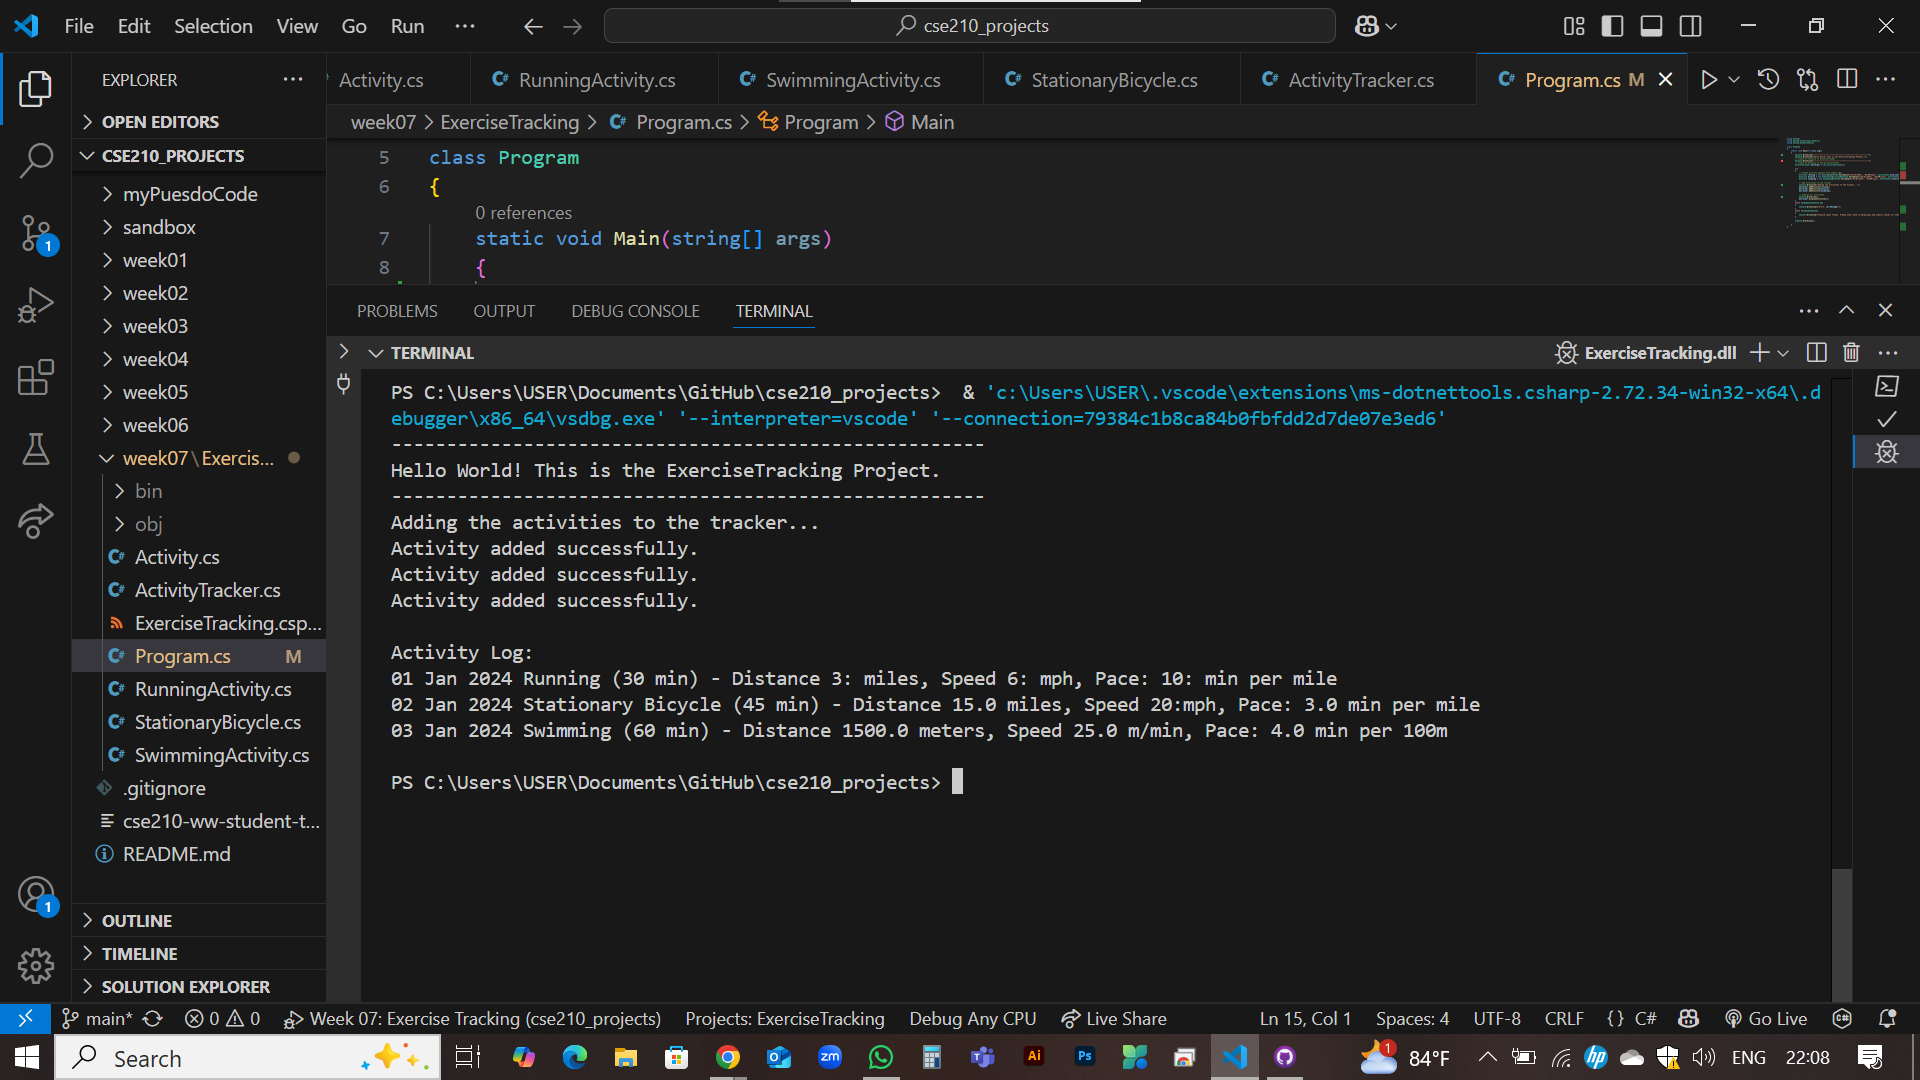
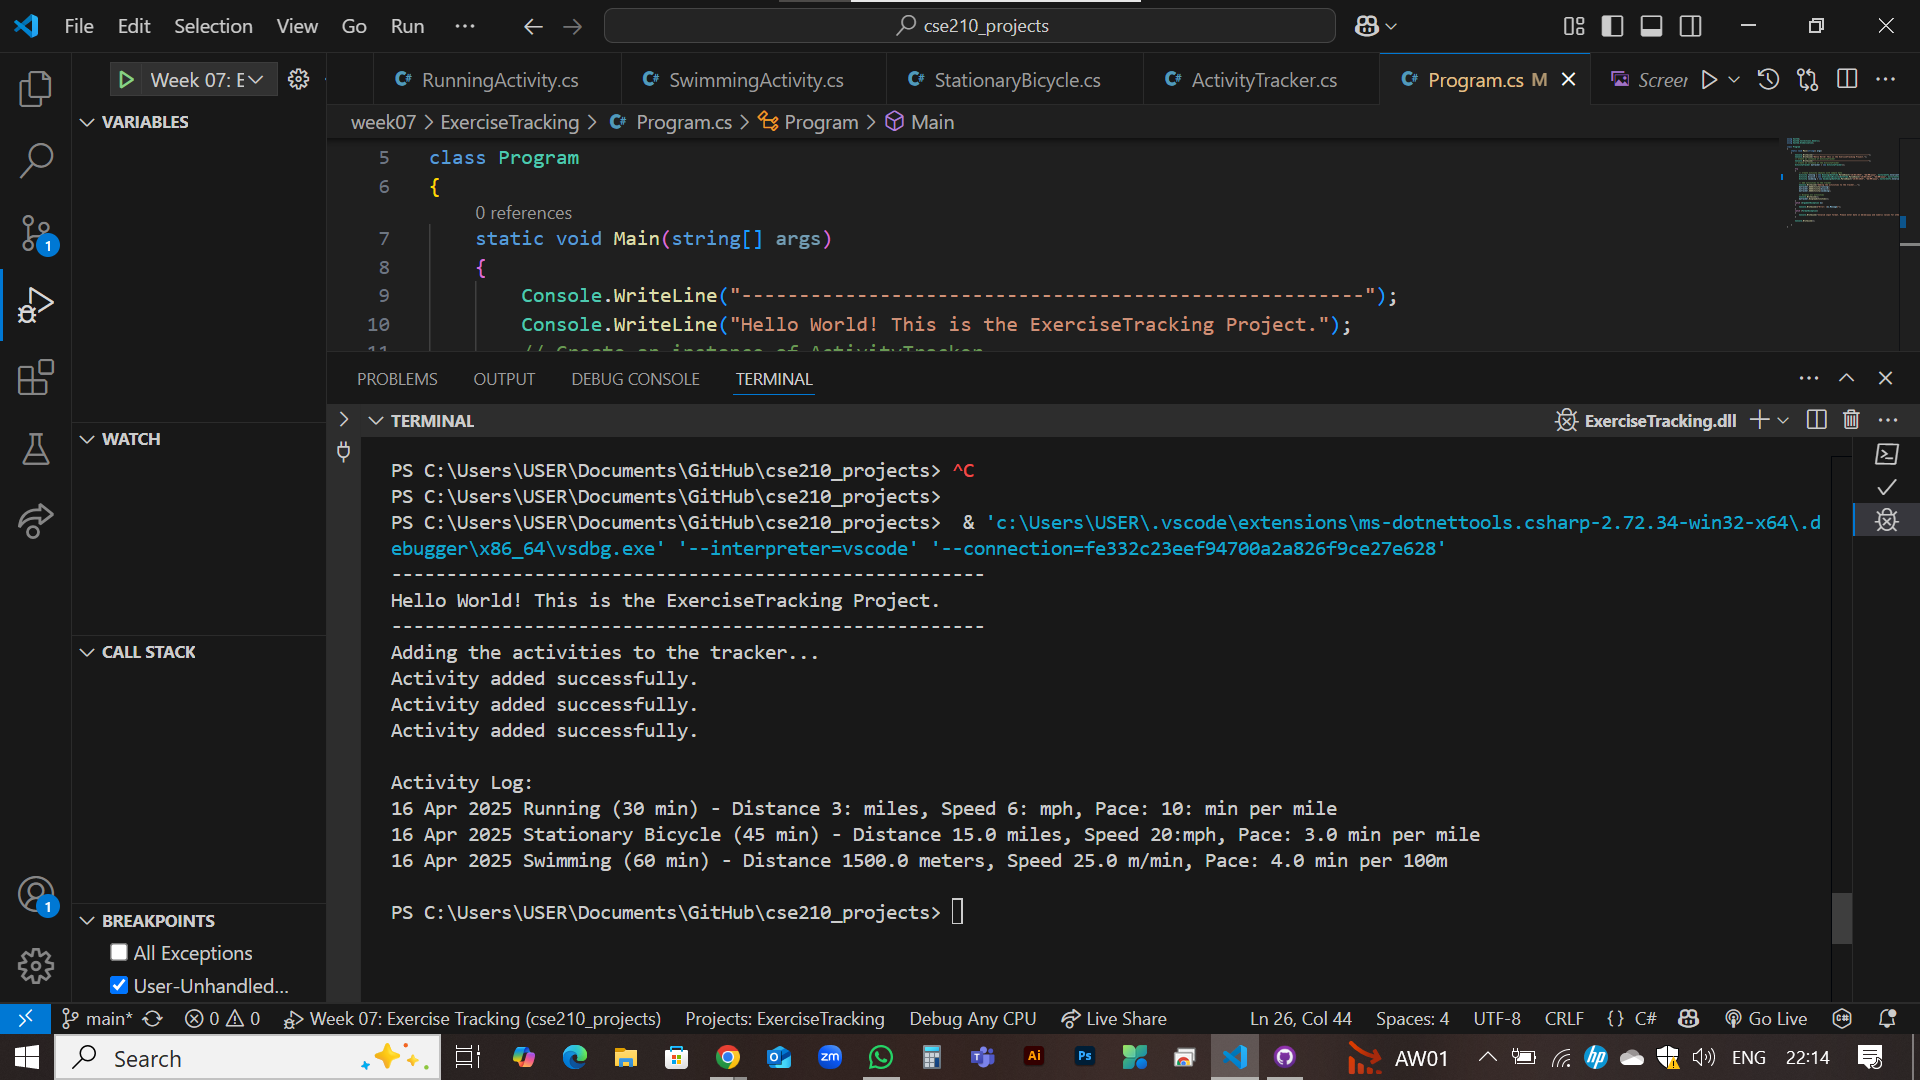
latest updates

diff --git a/week07/ExerciseTracking/Program.cs b/week07/ExerciseTracking/Program.cs
@@ -16,9 +16,9 @@ class Program
         try
         {
             // Create activity objects with sample data
-            Activity running = new Running(DateTime.ParseExact("01/01/2024", "dd/MM/yyyy", CultureInfo.InvariantCulture), 30, 3.0);
-            Activity bicycle = new StationaryBicycle(DateTime.ParseExact("02/01/2024", "dd/MM/yyyy", CultureInfo.InvariantCulture), 45, 20.0);
-            Activity swimming = new Swimming(DateTime.ParseExact("03/01/2024", "dd/MM/yyyy", CultureInfo.InvariantCulture), 60, 30);
+            Activity running = new Running(DateTime.ParseExact("16/04/2025", "dd/MM/yyyy", CultureInfo.InvariantCulture), 30, 3.0);
+            Activity bicycle = new StationaryBicycle(DateTime.ParseExact("16/04/2025", "dd/MM/yyyy", CultureInfo.InvariantCulture), 45, 20.0);
+            Activity swimming = new Swimming(DateTime.ParseExact("16/04/2025", "dd/MM/yyyy", CultureInfo.InvariantCulture), 60, 30);
 
             // Add activities to the tracker
             Console.WriteLine("Adding the activities to the tracker...");
